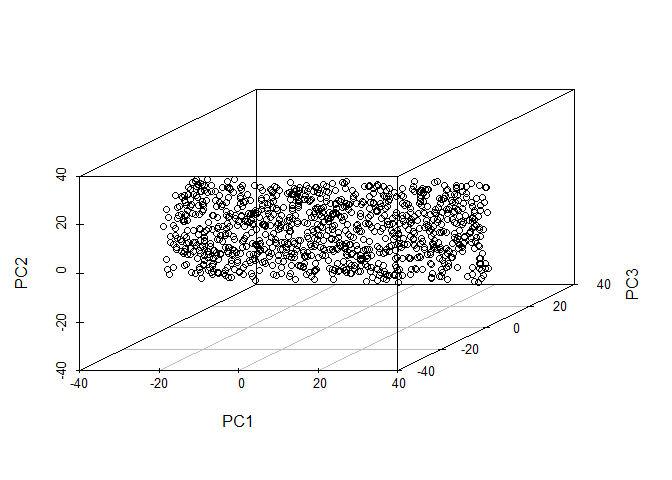
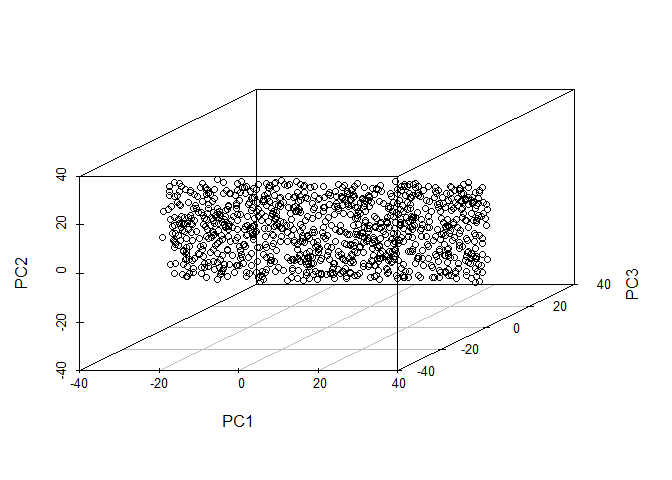
reformat

Changed region(s): [[0.25, 0.375, 0.75, 0.5938]]

diff --git a/02 - Notes/04 - Data Understanding - Copy/1 - PCA/README.md b/02 - Notes/04 - Data Understanding - Copy/1 - PCA/README.md
@@ -20,7 +20,7 @@ Reading: Applied Predictive Modeling: 3.3
 
 -   Goal is to maintain the same variance as the upper level dimension
 
--   ![](images/paste-3F88191E.png)
+-   <img src="images/paste-3F88191E.png" width="781" />
 
 ### Example 1: Rotation of Data
 
@@ -40,34 +40,34 @@ Reading: Applied Predictive Modeling: 3.3
 <tbody>
 <tr class="odd">
 <td>Variance</td>
-<td><img src="images/paste-BD5F3A4E.png" /></td>
+<td><img src="images/paste-BD5F3A4E.png" width="354" /></td>
 </tr>
 <tr class="even">
 <td>Covariance Matrix</td>
-<td><img src="images/paste-E4390E88.png" /></td>
+<td><img src="images/paste-E4390E88.png" width="512" /></td>
 </tr>
 <tr class="odd">
 <td>Solution to PCA</td>
 <td><p>Make a judgement call on the % of variation that you contain</p>
-<p><img src="images/paste-76E5BAE4.png" /></p>
-<p><img src="images/paste-63633851.png" /></p></td>
+<p><img src="images/paste-76E5BAE4.png" width="391" /></p>
+<p><img src="images/paste-63633851.png" width="375" /></p></td>
 </tr>
 <tr class="even">
 <td>Normalization</td>
 <td><p>Each Attribute should contribute equally to the overall
 variance</p>
-<p><img src="images/paste-158F08ED.png" /></p></td>
+<p><img src="images/paste-158F08ED.png" width="550" /></p></td>
 </tr>
 </tbody>
 </table>
 
 ## Conceptual Example of PCA
 
-<img src="images/paste-925C48F1.png" width="1152" />
+<img src="images/paste-925C48F1.png" width="550" />
 
 ### Two possible principal components:
 
-<img src="images/paste-4D02DAD2.png" width="1196" />
+<img src="images/paste-4D02DAD2.png" width="550" />
 
 ### How do the two PC’s perform?
 
@@ -126,13 +126,13 @@ pc
 ```
 
     Standard deviations (1, .., p=3):
-    [1] 22.721519 11.203602  1.727381
+    [1] 23.18262 11.36526  1.74433
 
     Rotation (n x k) = (3 x 3):
-                PC1         PC2           PC3
-    x -0.9996569391  0.02617929  0.0008055776
-    y -0.0261839327 -0.99963646 -0.0064295823
-    z -0.0006369629  0.00644847 -0.9999790055
+             PC1          PC2          PC3
+    x 0.99986461 -0.016350327  0.001849095
+    y 0.01635242  0.999865658 -0.001124551
+    z 0.00183046 -0.001154635 -0.999997658
 
 ``` r
 summary(pc)
@@ -140,9 +140,9 @@ summary(pc)
 
     Importance of components:
                                PC1     PC2     PC3
-    Standard deviation     22.7215 11.2036 1.72738
-    Proportion of Variance  0.8007  0.1947 0.00463
-    Cumulative Proportion   0.8007  0.9954 1.00000
+    Standard deviation     23.1826 11.3653 1.74433
+    Proportion of Variance  0.8026  0.1929 0.00454
+    Cumulative Proportion   0.8026  0.9955 1.00000
 
 ``` r
 plot(pc)
@@ -155,15 +155,15 @@ str(pc)    #look at component pieces of the prcomp obj
 ```
 
     List of 5
-     $ sdev    : num [1:3] 22.72 11.2 1.73
-     $ rotation: num [1:3, 1:3] -0.999657 -0.026184 -0.000637 0.026179 -0.999636 ...
+     $ sdev    : num [1:3] 23.18 11.37 1.74
+     $ rotation: num [1:3, 1:3] 0.99986 0.01635 0.00183 -0.01635 0.99987 ...
       ..- attr(*, "dimnames")=List of 2
       .. ..$ : chr [1:3] "x" "y" "z"
       .. ..$ : chr [1:3] "PC1" "PC2" "PC3"
-     $ center  : Named num [1:3] -0.2793 -0.1573 -0.0488
+     $ center  : Named num [1:3] 0.7067 0.2255 0.0227
       ..- attr(*, "names")= chr [1:3] "x" "y" "z"
      $ scale   : logi FALSE
-     $ x       : num [1:1000, 1:3] -36.36 -5.84 -22.81 19.81 -16.53 ...
+     $ x       : num [1:1000, 1:3] -26.71 -9.86 -26.09 22.63 -3.58 ...
       ..- attr(*, "dimnames")=List of 2
       .. ..$ : NULL
       .. ..$ : chr [1:3] "PC1" "PC2" "PC3"
@@ -181,22 +181,22 @@ str(pc)    #look at component pieces of the prcomp obj
 pc$rotation
 ```
 
-                PC1         PC2           PC3
-    x -0.9996569391  0.02617929  0.0008055776
-    y -0.0261839327 -0.99963646 -0.0064295823
-    z -0.0006369629  0.00644847 -0.9999790055
+             PC1          PC2          PC3
+    x 0.99986461 -0.016350327  0.001849095
+    y 0.01635242  0.999865658 -0.001124551
+    z 0.00183046 -0.001154635 -0.999997658
 
 ``` r
 head(pc$x)
 ```
 
-                PC1       PC2        PC3
-    [1,] -36.364279 10.479770 -2.3380491
-    [2,]  -5.839716 15.275111  1.6951654
-    [3,] -22.810936 -9.507178 -1.9729993
-    [4,]  19.813894  2.160270 -0.3612566
-    [5,] -16.529847 12.364697 -0.2126987
-    [6,] -25.488714  7.762937  0.2762267
+                PC1       PC2         PC3
+    [1,] -26.712863  9.963198 -1.69957281
+    [2,]  -9.861888 13.774103  0.09355149
+    [3,] -26.091668 -3.496968 -0.57767646
+    [4,]  22.634889  2.638372 -1.29813087
+    [5,]  -3.575430 -7.973293 -1.53807538
+    [6,]  -8.340154  7.655477 -1.54402539
 
 ``` r
 df2<-scale(df,scale=F)
@@ -205,12 +205,12 @@ mat<-df2%*%pc$rotation
 mat[1:5,]
 ```
 
-                PC1       PC2        PC3
-    [1,] -36.364279 10.479770 -2.3380491
-    [2,]  -5.839716 15.275111  1.6951654
-    [3,] -22.810936 -9.507178 -1.9729993
-    [4,]  19.813894  2.160270 -0.3612566
-    [5,] -16.529847 12.364697 -0.2126987
+                PC1       PC2         PC3
+    [1,] -26.712863  9.963198 -1.69957281
+    [2,]  -9.861888 13.774103  0.09355149
+    [3,] -26.091668 -3.496968 -0.57767646
+    [4,]  22.634889  2.638372 -1.29813087
+    [5,]  -3.575430 -7.973293 -1.53807538
 
 ``` r
 #for convenience:
